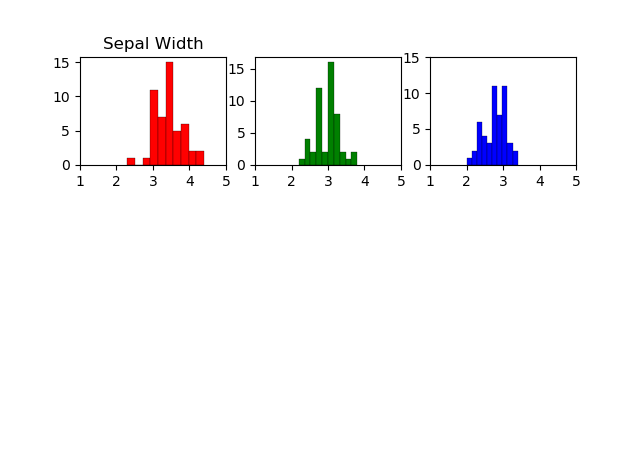
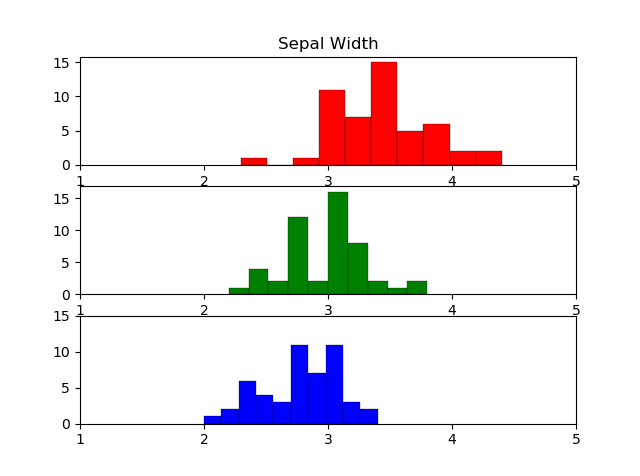
correct subplot error

diff --git a/hist2.py b/hist2.py
@@ -22,61 +22,61 @@ vers3= data[:,2]
 vers4= data[:,3]
 
 
-pl.subplot(331)
+pl.subplot(311)
 pl.title('Sepal Length')
 pl.hist(set1, color='r',edgecolor='k', linewidth=0.2, label='Iris-Setosa')
 pl.xticks([3, 4, 5, 6, 7])
 pl.yticks([0, 5, 10, 15])
-pl.subplot(332)
+pl.subplot(312)
 pl.hist(virg1, color='g',edgecolor='k', linewidth=0.2, label='Iris-Virginica')
 pl.xticks([3, 4, 5, 6, 7])
 pl.yticks([0, 5, 10, 15])
-pl.subplot(333)
+pl.subplot(313)
 pl.hist(vers1, color='b',edgecolor='k', linewidth=0.2, label='Iris-Versicolor')
 pl.xticks([3, 4, 5, 6, 7])
 pl.yticks([0, 5, 10, 15])
 pl.show()
 
-pl.subplot(331)
+pl.subplot(311)
 pl.title('Sepal Width')
 pl.hist(set2, color='r',edgecolor='k', linewidth=0.2, label='Iris-Setosa')
 pl.xticks([1, 2, 3, 4, 5])
 pl.yticks([0, 5, 10, 15])
-pl.subplot(332)
+pl.subplot(312)
 pl.hist(virg2, color='g',edgecolor='k', linewidth=0.2, label='Iris-Virginica')
 pl.xticks([ 1, 2, 3, 4, 5])
 pl.yticks([0, 5, 10, 15])
-pl.subplot(333)
+pl.subplot(313)
 pl.hist(vers2, color='b',edgecolor='k', linewidth=0.2, label='Iris-Versicolor')
 pl.xticks([ 1, 2, 3, 4, 5])
 pl.yticks([0, 5, 10, 15])
 pl.show()
 
-pl.subplot(331)
+pl.subplot(311)
 pl.title('Petal Length')
 pl.hist(set3, color='r',edgecolor='k', linewidth=0.2, label='Iris-Setosa')
 pl.xticks([0, 1, 2, 3, 4, 5, 6, 7])
 pl.yticks([0, 5, 10, 15])
-pl.subplot(332)
+pl.subplot(312)
 pl.hist(virg3, color='g',edgecolor='k', linewidth=0.2, label='Iris-Virginica')
 pl.xticks([0, 1, 2, 3, 4, 5, 6, 7])
 pl.yticks([0, 5, 10, 15])
-pl.subplot(333)
+pl.subplot(313)
 pl.hist(vers3, color='b',edgecolor='k', linewidth=0.2, label='Iris-Versicolor')
 pl.xticks([0, 1, 2, 3, 4, 5, 6, 7])
 pl.yticks([0, 5, 10, 15])
 pl.show()
 
-pl.subplot(331)
+pl.subplot(311)
 pl.title('Petal Width')
 pl.hist(set4, color='r',edgecolor='k', linewidth=0.2, label='Iris-Setosa')
 pl.xticks([0, 1, 2, 3])
 pl.yticks([0, 10, 20, 30])
-pl.subplot(332)
+pl.subplot(312)
 pl.hist(virg4, color='g',edgecolor='k', linewidth=0.2, label='Iris-Virginica')
 pl.xticks([0, 1, 2, 3])
 pl.yticks([0, 10, 20, 30])
-pl.subplot(333)
+pl.subplot(313)
 pl.hist(vers4, color='b',edgecolor='k', linewidth=0.2, label='Iris-Versicolor')
 pl.xticks([0, 1, 2, 3])
 pl.yticks([0, 10, 20, 30])
